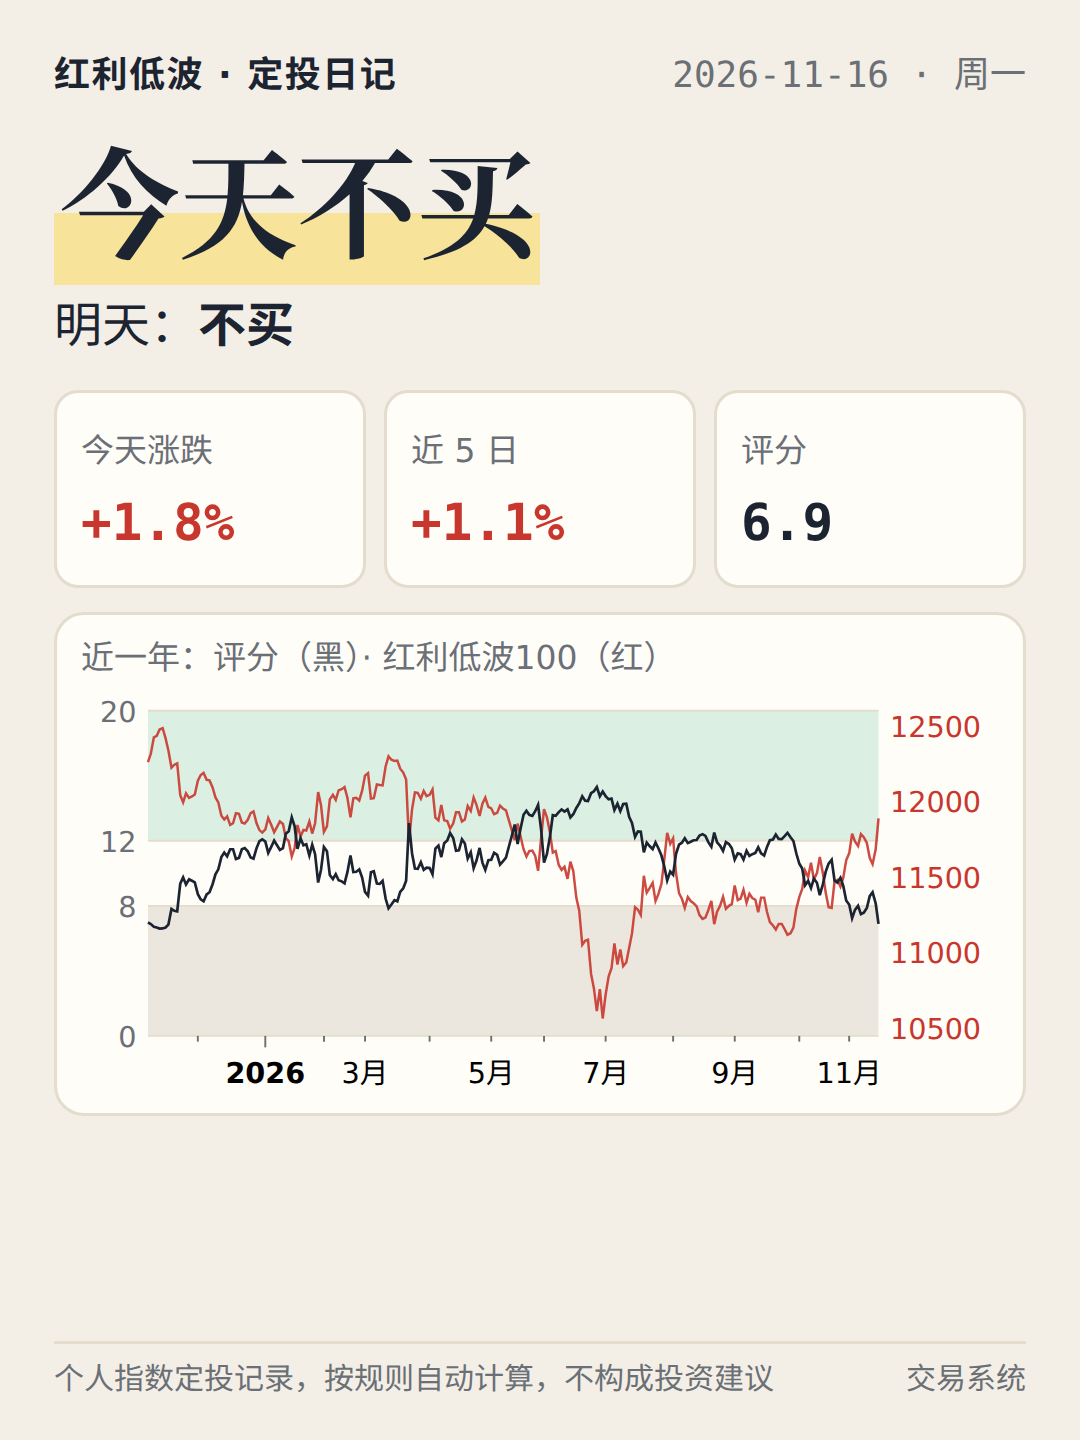
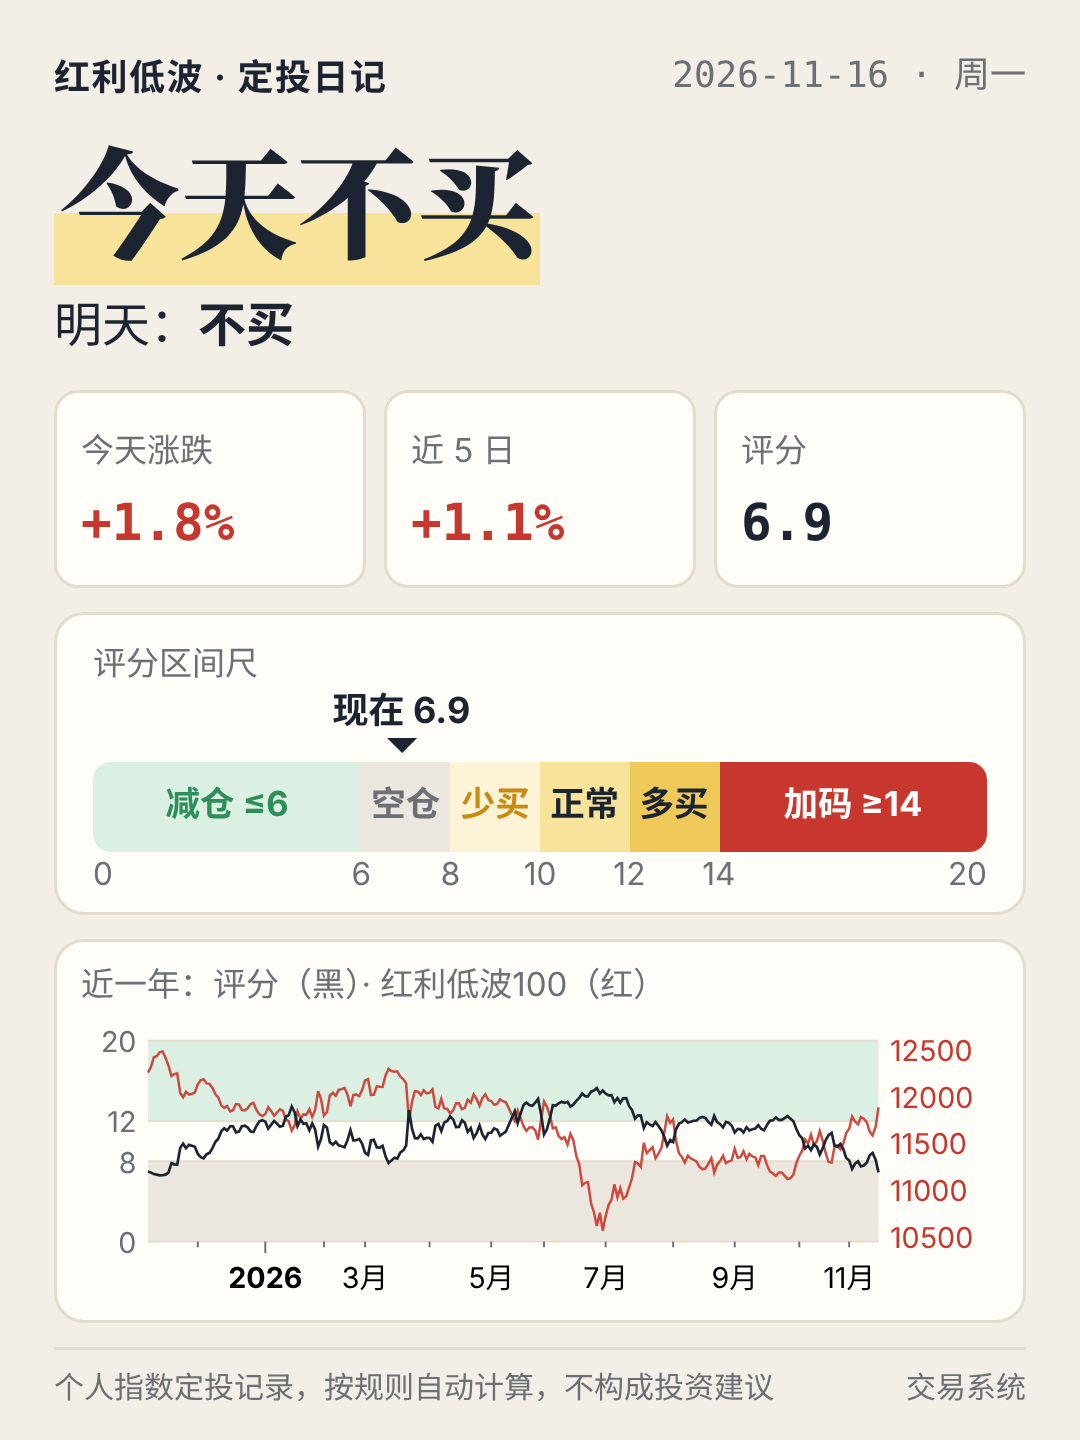
每日图加评分区间尺
Claude-Session: https://claude.ai/code/session_01Qk3knmk66XzVPPABvqHrnW

diff --git a/share.html b/share.html
@@ -40,6 +40,7 @@ html,body{margin:0;padding:0;background:var(--bg)}
 .bars .v{text-align:right;font-family:var(--f-num);font-weight:700}
 .tipx{font-size:12px;line-height:1.5}
 .wt{width:100%;border-collapse:collapse;font-size:12.5px;font-family:var(--f-num)}.wt th{font-size:11px;color:var(--muted);font-weight:400;text-align:left;padding:4px 2px}
+.sr .seg{white-space:nowrap;padding:0;font-size:11.5px}
 .wt.big3{font-size:14.5px}.wt.big3 td{padding:9px 2px}.wt td{padding:5px 2px;border-top:1px solid var(--line);white-space:nowrap}.wt .pill{font-size:11.5px;padding:1px 7px}
 .sc{position:relative;height:12px;margin:12px 0 2px;border-radius:3px;overflow:visible}.sc i{position:absolute;top:0;bottom:0}
 .sc em{position:absolute;top:-5px;width:14px;height:14px;margin-left:-7px;border-radius:50%;background:var(--ink);border:2px solid #fff;box-sizing:border-box}
@@ -79,10 +80,17 @@ function divCard(d){
     <div class="sub" style="font-size:16px;color:var(--ink)">${NX}${d.live?"（预计）":""}：<b>${next}</b></div>
     ${d.live?`<div class="lbl" style="color:var(--div)">按 ${d.live.time} 盘中价格估算，收盘后自动更新</div>`:""}
     <div class="stats"><div><span class="lbl">${d.live?"盘中 "+d.live.time:"今天涨跌"}</span><b style="color:${c>0?"var(--mark)":"var(--grow)"}">${sg(c)}</b></div><div><span class="lbl">近 5 日</span><b style="color:${c5>0?"var(--mark)":"var(--grow)"}">${sg(c5)}</b></div><div><span class="lbl">评分</span><b>${L.score.toFixed(1)}</b></div></div>
-    <div class="box chartbox" style="padding:6px 8px"><div class="lbl">近一年：评分（黑）· 红利低波100（红）</div><svg id="c" viewBox="0 0 480 215"></svg></div>
+    <div class="box" style="padding:8px 12px 6px"><div class="lbl">评分区间尺</div>
+      <div style="position:relative;margin-top:24px">
+        <div style="position:absolute;left:${Math.min(97,Math.max(3,L.score/20*100))}%;top:-23px;transform:translateX(-50%);text-align:center;font-size:12px;line-height:1;white-space:nowrap"><b>现在 ${L.score.toFixed(1)}</b><div style="width:0;height:0;margin:3px auto 0;border:5px solid transparent;border-top-color:var(--ink);border-bottom:0"></div></div>
+        <div class="sr" style="display:flex;height:30px;border-radius:6px;overflow:hidden">
+          <div class="seg l" style="width:30%">减仓 ≤6</div><div class="seg m" style="width:10%">空仓</div><div class="seg y1" style="width:10%">少买</div><div class="seg y2" style="width:10%">正常</div><div class="seg y3" style="width:10%">多买</div><div class="seg r" style="width:30%">加码 ≥14</div></div>
+        <div style="position:relative;height:14px;font-size:10.5px;color:var(--muted)">${[[0,0],[30,6],[40,8],[50,10],[60,12],[70,14],[100,20]].map(([x,v])=>`<span style="position:absolute;left:${x}%;transform:translateX(${x===0?0:x===100?-100:-50}%)">${v}</span>`).join("")}</div>
+      </div></div>
+    <div class="box chartbox" style="padding:6px 8px"><div class="lbl">近一年：评分（黑）· 红利低波100（红）</div><svg id="c" viewBox="0 0 480 150"></svg></div>
     ${FT}`;
   const X=S.slice(-250);
-  DualChart($("c"),{W:480,H:215,dates:X.map(x=>x[0]),leftRange:[0,20],leftTicks:[0,8,12,20],leftFmt:v=>v,
+  DualChart($("c"),{W:480,H:150,dates:X.map(x=>x[0]),leftRange:[0,20],leftTicks:[0,8,12,20],leftFmt:v=>v,
     bands:[{from:12,to:20,fill:"var(--grow-soft)"},{from:0,to:8,fill:"var(--mid)"}],
     left:[{v:X.map(x=>x[1]),c:"var(--ink)",w:1.4}],right:{v:X.map(x=>x[2]),c:"var(--mark)"},tip:()=>""});
 }
